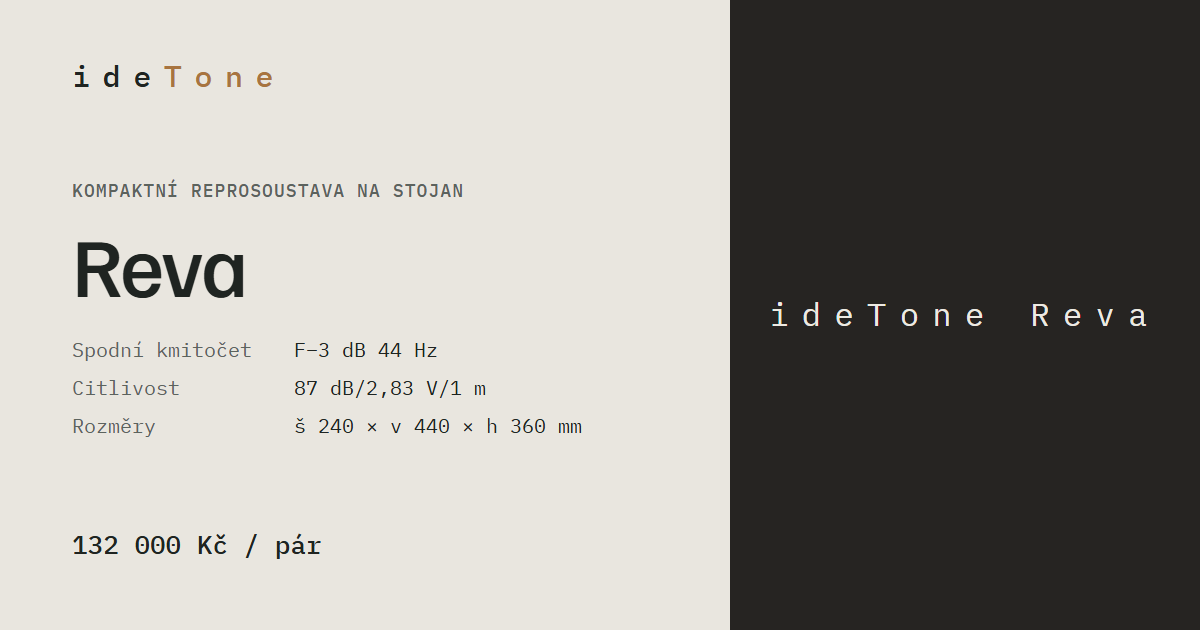
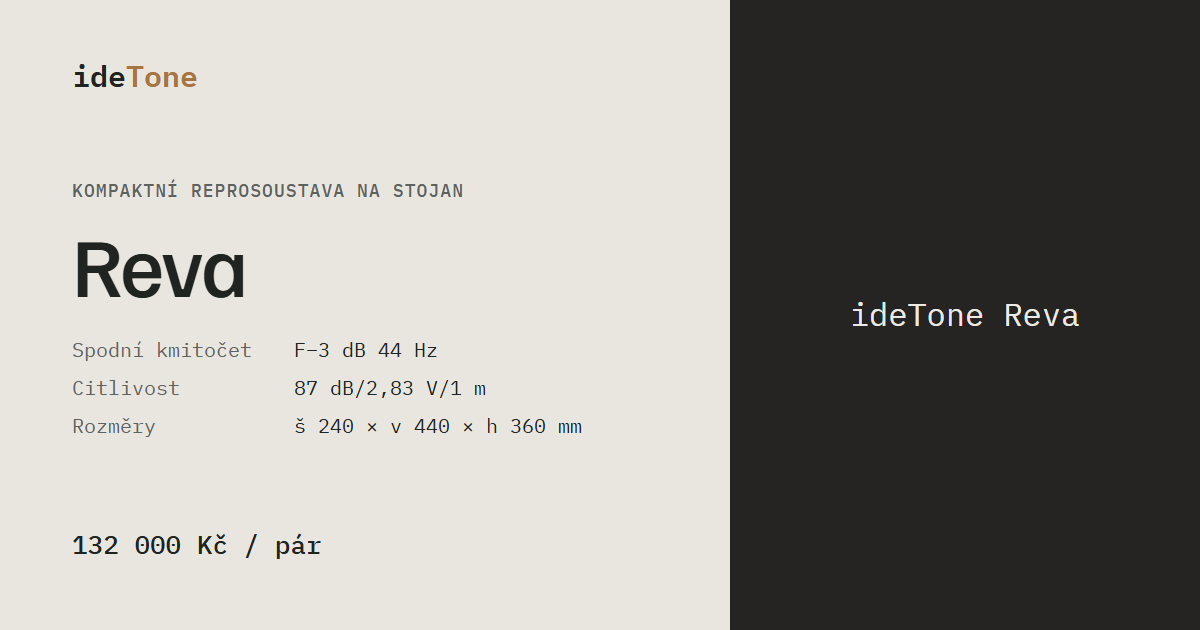
docs: dávka 2 hotová, test režimů pohybu, OG obrázky s novým logem

Changed region(s): [[0.0617, 0.0905, 0.2467, 0.1508], [0.6475, 0.4825, 0.8017, 0.5429], [0.8325, 0.4825, 0.9558, 0.5127]]

diff --git a/tests/layout.spec.ts b/tests/layout.spec.ts
@@ -83,3 +83,25 @@ test('srovnávací tabulka: první sloupec zůstává při posunu na mobilu', as
   const after = await firstCell.boundingBox();
   expect(after?.x).toBeCloseTo(before?.x ?? 0, 0);
 });
+
+// Dávka 2.6: při omezeném pohybu bez posunů a masek, ale s prolnutím; obsah musí být vidět
+for (const motion of ['no-preference', 'reduce'] as const) {
+  test(`pohyb ${motion}: hero a sekce se zobrazí`, async ({ page }) => {
+    await page.emulateMedia({ reducedMotion: motion });
+    await page.setViewportSize({ width: 1280, height: 800 });
+    await page.goto('/');
+    const drawing = page.locator('.hero__drawing');
+    await expect(drawing).toBeVisible();
+    const animation = await drawing.evaluate((el) => getComputedStyle(el).animationName);
+    expect(animation).toBe(motion === 'reduce' ? 'fade-in' : 'draw-up');
+    await page.waitForTimeout(2200);
+    expect(await drawing.evaluate((el) => getComputedStyle(el).opacity)).toBe('1');
+
+    const step = page.locator('.process__text').first();
+    await step.scrollIntoViewIfNeeded();
+    await expect(step).toHaveCSS('opacity', '1', { timeout: 3000 });
+    if (motion === 'reduce') {
+      expect(await step.evaluate((el) => getComputedStyle(el).transform)).toBe('none');
+    }
+  });
+}

diff --git a/CLAUDE.md b/CLAUDE.md
@@ -31,14 +31,14 @@ Web českého výrobce high-end reprosoustav ideTone (Petr Kocourek, Brno). Spra
 - Dub `#A8743F` (akcent, „Tone“ v logu; text v odkazech `#8A5C2E`) · Grafit `#1F2421` (text) · Šalvěj `#8E9B88`
 - Zaoblení 0–2 px, bez gradientů, bez emoji, bez stínů všude, jen světlý režim
 - Sklo (glass, od 1. 10. 2026 na přání Lukáše, ruší zákaz glassmorphismu ze zadání): tmavé plochy (hero panel, `Section tone="uhel"`, patička) = `GlassBackdrop` (rozostřená fotka dřeva pod průsvitným Uhlem); skleněné karty `--glass-card` + `--glass-edge` + `backdrop-filter`; mobilní menu a lightbox `--glass-overlay`; hlavička po scrollu a lišta s cenou `--glass-light`. Tokeny `--glass-*` v `tokens.css`, bez podpory backdrop-filter plné barvy
-- Logo: „ideTone“ IBM Plex Mono 600, prostrkání 0,3 em, „ide“ grafit + „Tone“ dub; komponenta `Logo.astro` (inline SVG na jednom řádku kvůli mezerám – `prettier-ignore`, varianty `dark` / `light`, `height` = velikost písma). Výměna loga = přepsat jen `Logo.astro`
+- Logo: „ideTone“ IBM Plex Mono 600, vcelku bez prostrkání (dávka 2.1), „ide“ grafit + „Tone“ dub; komponenta `Logo.astro` (inline SVG na jednom řádku kvůli mezerám – `prettier-ignore`, varianty `dark` / `light`, `height` = velikost písma). Výměna loga = přepsat jen `Logo.astro`
 - Typografie jen přes sémantické tokeny: `--fs-body` (odstavce 17/18), `--fs-lead` (perex, jen první odstavec), `--fs-data` (strojopis min. 14), `--fs-small` (poznámky min. 14), `--fs-label` (štítky 13, 1–3 slova), `--fs-legal` (copyright 13), `--fs-quote`, `--fs-model` (název modelu 48–96); nadpisy `--fs-xxl…--fs-m`
 - Favicon: `public/favicon.svg` (T dubem na tmavé ploše), PNG verze generuje `npm run favicons`
-- Pohyb (dávka 1.3): odkrytí sekcí `data-reveal`, fotek `data-reveal-img` (clip-path), nástup hero (CSS), Ken Burns pozadí hero, parallax produktu, hover modelů, šipky tlačítek, View Transitions. Vše vypnuté při `prefers-reduced-motion`, obsah viditelný bez JS
+- Pohyb: odkrytí sekcí `data-reveal`, fotek `data-reveal-img` (clip-path), nástup hero, kresba v hero se „nakreslí“ maskou a podpis „napíše“, hover modelů, šipky tlačítek, View Transitions. Při `prefers-reduced-motion: reduce` bez posunů a masek, jen prolnutí `--dur-fade` (300 ms) a hover (dávka 2.6); obsah viditelný bez JS
 - View Transitions (`<ClientRouter />` v `BaseLayout`): skripty komponent spouštět přes `onPage()` z `src/utils/lifecycle.ts` (posluchače s `{ signal }`), ne přímo
 
 ## Komponenty (`src/components/`)
-- `Logo`, `Button` (`variant` primary/secondary, `tone` light/dark, `arrow`), `Section` (`tone` len/papir/uhel, `divider`, `space`, `width`, `glass`/`glassImage` pro tón uhel), `ImageSlot` (`ratio` 4/5, 16/9, 1/1, 3/2, `label`), `Photo` (obsahová fotka s ořezem, `placeholder` → filtr AI), `HeroMedia` (pozadí hero: fotka s Ken Burns nebo video), `ProductSilhouette` (obrysová kresba, když chybí fotka modelu), `Header` (fixed, nahoře velké logo na střed + menu pod ním, po scrollu jeden řádek; rezerva `--header-top-h` na `main`; mobil logo na střed + „Menu“), `Footer`
+- `Logo`, `Button` (`variant` primary/secondary, `tone` light/dark, `arrow`), `Section` (`tone` len/papir/uhel, `divider`, `space`, `width`, `glass`/`glassImage` pro tón uhel), `ImageSlot` (`ratio` 4/5, 16/9, 1/1, 3/2, `label`), `Photo` (obsahová fotka s ořezem, `placeholder` → filtr AI), `ProcessSteps` (číslované kroky s fotkou – Proces vývoje), `ProductSilhouette` (obrysová kresba, když chybí fotka modelu), `Header` (fixed, nahoře velké logo na střed + menu pod ním, po scrollu jeden řádek; rezerva `--header-top-h` na `main`; mobil logo na střed + „Menu“), `Footer`
 - Obsahové: `ProductFeature` (blok modelu, `variant` tall/compact – záměrně ne dvě stejné karty, `showPrice`, rozvržení přes container queries, `transition:name` `model-<id>` sdílený s `Gallery`), `SpecTable`, `CompareTable` (generovaná z kolekce products, sticky první sloupec), `Gallery` (šipky, miniatury, swipe, lightbox `<dialog>`, bez JS odkazy na velké fotky; bez fotek ImageSlot), `Quote`, `WaveguideFigure` (SVG schéma zvukovodu), `PageHeader`, `TextBlock` (odstavce/seznam/podsekce z frontmatteru), `ContactForm` (`type` order/listening/custom; Formspree přes fetch + JSON, české validační hlášky, stavy odesílám/úspěch/chyba, honeypot `_gotcha`, souhlas GDPR, `?model=` předvyplní model, stojany jen u Revy; bez JS klasický POST)
 - `BaseLayout` (`title`, `description` povinný, `noindex`, `image` OG, `ogType`, `crumbs` pro BreadcrumbList, `jsonLd`), `ProsePage` (právní stránky z Markdownu)
 - SEO: canonical, OG + Twitter, JSON-LD (Organization na všech stránkách, LocalBusiness na úvodu/Poslech/Kontakt, Product + Offer u modelů, BreadcrumbList) v `src/utils/seo.ts`; hreflang se vypíše až s `features.english`
@@ -49,7 +49,8 @@ Web českého výrobce high-end reprosoustav ideTone (Petr Kocourek, Brno). Spra
 
 ## Kde co je
 - Schémata obsahu (Zod): `src/content.config.ts`
-- Úvodní stránka – sekce, pořadí, `visible`, `showPrices`, pozadí hero (`background.image` / `video`): `src/content/home.yaml`
+- Úvodní stránka – sekce (hero s kresbou a podpisem, models, concept, process, technology, listening), pořadí, `visible`, `showPrices`: `src/content/home.yaml`
+- Sestava v poslechovém studiu: `studio.system` v `src/content/settings.yaml`; kresba a podpis: `src/assets/uploads/kresby/` (originály `podklady/obrazky/`)
 - Dočasné AI ilustrace: `src/assets/uploads/ai/`, v datech `placeholder: true` + `source` (originály `podklady/ai-obrazky/`); `npm run todo` je vypíše. Na produktových místech (modely, přepínač, bassreflex, portrét) je nepoužívat
 - Kontakty, adresa studia, firemní údaje, sociální sítě: `src/content/settings.yaml` (čte `getSettings()` z `src/utils/content.ts`; prázdné hodnoty se nezobrazí)
 - Produkty (ceny, specifikace, galerie, texty Konstrukce jako `### bloky` v těle): `src/content/products/*.md`

diff --git a/idetone-rozhodnuti.md b/idetone-rozhodnuti.md
@@ -1,7 +1,7 @@
 # ideTone – stav projektu a rozhodnutí
 
 Poslední aktualizace: 1. 10. 2026
-Fáze: **Ladění designu – dávka 1 (docs/UPRAVY.md) hotová, čeká na kontrolu**. Web běží na testovací adrese https://lukaspilko1-sketch.github.io/idetone/ (noindex). F5 – Admin panel odložena. Úpravy se zadávají po dávkách v docs/UPRAVY.md.
+Fáze: **Ladění designu – dávka 2 (docs/UPRAVY.md) hotová, čeká na kontrolu**. Web běží na testovací adrese https://lukaspilko1-sketch.github.io/idetone/ (noindex). F5 – Admin panel odložena. Úpravy se zadávají po dávkách v docs/UPRAVY.md.
 
 Tento soubor je jediný zdroj pravdy o stavu projektu. Kopie je v Claude projektu „WEB - ideTone“ (claude/idetone-rozhodnuti.md) a ve složce webu na PC. Při změně aktualizovat obě.
 
@@ -78,6 +78,9 @@ Tento soubor je jediný zdroj pravdy o stavu projektu. Kopie je v Claude projekt
 - Obchodní podmínky, zásady ochrany osobních údajů
 - Fotky Revy (žádné nejsou – všechny fotky ze starého webu jsou Sara), fotka přepínače výšek (na starém webu ideTone-technologie-urovne-vysek.png, v podkladech chybí), portrét Petra, dílna, studio, spodní část Sary s bassreflexem
 - Kreslené ilustrace (tužkové skici) v podkladech nejsou – 01.png a 02.png jsou screenshoty starého webu
+- Kresba Sary a podpis Petra jen jako výřez ze starého webu (nízké rozlišení) → originál ve vysokém rozlišení / vektor (klient)
+- „CT2034A“ v textu Proces vývoje – nejspíš norma CTA-2034-A (spinorama), ověřit (klient)
+- Sestava studia: přesné názvy modelů, Accuphase PS-1200 („pračka“ na starém webu – síťový zdroj / regenerátor?) (klient)
 - Ke schválení (NÁVRH): texty úvodu (hero, nadpisy sekcí, zkrácené texty technologií, pruh Poslech), meta popisy všech stránek, perexy, „Který model pro mě?“, celá stránka Zakázkové projekty, možnosti poslechu (studio / u zákazníka), GDPR text, doplnění „během let“ v O ideTone
 - Kdy je možné domluvit poslech (dny, časy) → settings.yaml studio.hours
 - Formspree: ověřit podmínky a přenos dat do USA pro text GDPR (Lukáš)
@@ -97,3 +100,4 @@ Tento soubor je jediný zdroj pravdy o stavu projektu. Kopie je v Claude projekt
 - 1. 10. 2026 (F4): axe – čísla kroků Zakázkových projektů na mobilu v --c-dub-text (dub neměl kontrast); kontrast textu na skle změřen z pixelů pozadí → --glass-tint 0,66 a --c-on-dark-muted #C8C2B8 (nejhorší místo 4,7 : 1), malý text na skleněných kartách v plné barvě; Lighthouse přes Chromium z Playwrightu (chrome-launcher na Windows nespustí prohlížeč); CI: actions v7/v5, samostatný job s testy, deploy až po buildu i testech; Formspree free tarif (Lukáš: stačí)
 - 1. 10. 2026: glass v aktuální podobě schválen („zatím ok“); F5 (admin panel) odložena – nejdřív ladění designu podle oblíbených webů klienta
 - 2. 10. 2026 (dávka 1): hlavička fixed s rezervou nad obsahem (žádné skákání), velké logo na střed jako Focal/Dynaudio, po scrollu logo vlevo; logo Plex Mono 600, prostrkání 0,3 em (bylo 500 / 0,42 em); šipka u podmenu kreslená v CSS; View Transitions (ClientRouter) – skripty přes onPage() v src/utils/lifecycle.ts; ceny na úvodu vypnuté přepínačem showPrices v home.yaml; Reva do dodání fotek jako obrysová kresba (ProductSilhouette); bloky modelů přes container queries; typografie jen přes sémantické tokeny, citát textovým písmem 400; ilustrační AI fotky s placeholder: true a filtrem saturate(.85); hero pozadí = rozostřená ilustrace dílny s Ken Burns (připraveno na video); opravena chyba nezlomitelných mezer u jednotek (regulární výraz od F2); kontrast textu na skle po změně pozadí přeměřen (min. 4,67 : 1); design tokeny verze 0.5
+- 2. 10. 2026 (dávka 2): logo vcelku bez prostrkání a menší; hero světlé s kresbou a podpisem (animace maskou, čisté CSS), bez tlačítek a bez tmavého panelu – HeroMedia a Ken Burns odstraněny; modely ve dvou stejných sloupcích bez specifikací (specifikace jen na detailu a ve srovnání, i přehled modelů je bez nich), Sara s fotkou DSC_0800i i jako první v galerii (kvůli plynulému přechodu); nové sekce Koncept a Proces vývoje s texty ze starého úvodu idetone.cz (redakčně jen interpunkce a jedno „je“ → „jsou“), Principy konstrukce a plný Proces vývoje na Technologiích, sestava studia v settings.yaml; citát o složitém celku na úvodu skrytý (visible: false), zůstává v textu O ideTone; při omezeném pohybu jen prolnutí místo vypnutí všeho (WCAG); komponenta ProcessSteps pro úvod i Technologie

diff --git a/docs/UPRAVY.md b/docs/UPRAVY.md
@@ -103,8 +103,17 @@ Pravidla (platí pro celý web, nastavit v tokenech):
 
 ## Dávka 2 – logo, nové hero s kresbou, modely bez specifikací, texty ze starého úvodu, animace
 
-**Stav:** SCHVÁLENO
+**Stav:** HOTOVO (2. 10. 2026)
 **Datum:** 2. 10. 2026
+
+**Výsledek:**
+- 2.1 Logo vcelku (bez prostrkání), desktop `clamp(32px, 3.4vw, 48px)`, po scrollu 22 px, mobil 26 → 20 px; OG obrázky přegenerované.
+- 2.2 Světlé hero bez tlačítek: štítek, H1, věta, „Modely ↓“; vpravo kresba Sary (nativní velikost, nezvětšená) a podpis. Tmavý panel, štítek a Ken Burns zrušené (komponenta `HeroMedia` odstraněna). Hero se vejde na 1280 × 800 i 375 × 812.
+- 2.3 Kresba se „nakreslí“ maskou zdola (1,4 s), podpis se „napíše“ zleva (1,1 s od 0,9 s), text nastupuje postupně. Čisté CSS.
+- 2.4 Modely ve dvou stejných sloupcích, fotka i silueta na stejné podlaze, názvy ve stejné výšce, bez specifikací (i v přehledu modelů – srovnávací tabulka je hned pod tím). Sara = fotka z hero (DSC_0800i), v galerii detailu první. Rezerva pod hero zrušena.
+- 2.5 Nové sekce Koncept a Proces vývoje (nové pořadí úvodu), Principy konstrukce a plný Proces vývoje na Technologiích, sestava studia v `settings.yaml` (`studio.system`) a jako tabulka na Poslechu, tlačítko „Zarezervujte si poslech“.
+- 2.6 Při `prefers-reduced-motion: reduce` jen prolnutí průhlednosti (300 ms) a hover, bez posunů a masek; ověřeno testy v obou režimech.
+- Lighthouse mobil: úvod 99 / 100 / 100 / 100, Technologie 99 / 100 / 100 / 100; 99 funkčních testů zelených.
 **Podklady:** `podklady/obrazky/` (připraveno v Cowork):
 - `kresba-sara-podpis-original.png` – originální screenshot kresby s podpisem (488 × 732 px, pozadí #EAE2DA)
 - `kresba-sara.png` – kresba Sary s průhledným pozadím, tah v barvě grafit (378 × 561 px)

diff --git a/docs/SPRAVA.md b/docs/SPRAVA.md
@@ -59,10 +59,13 @@ Web fotky sám zmenší a převede na AVIF/WebP, originál velikost nehraje roli
 Na stránkách (`src/content/pages/*.md`, `home.yaml`) vyměňte `imageSlot: { label, ratio }` za `image: { src, alt }`. Portrét Petra, dílna a studio jsou zatím přímo v šablonách (`src/pages/o-idetone.astro`, `poslech.astro`) – po dodání fotek je převedu do obsahu.
 
 ### Ceny na úvodní stránce
-V `src/content/home.yaml` přepínač `showPrices` (teď `false`). Cena je vždy na detailu modelu, v přehledu a ve srovnávací tabulce.
+V `src/content/home.yaml` přepínač `showPrices` (teď `false`). Cena je vždy na detailu modelu, v přehledu a ve srovnávací tabulce. Technické parametry jsou jen na detailu a ve srovnávací tabulce.
 
-### Video v hero místo fotky
-Krátké video z dílny (5–15 s, bez zvuku, ideálně do 3 MB) uložte do `public/video/` (např. `dilna.webm`, případně i `dilna.mp4`) a v `home.yaml` u hero doplňte do `background` řádek `video: /video/dilna.webm` (a `videoMp4: /video/dilna.mp4`). Fotka v `background.image` zůstane jako náhled, než se video načte.
+### Kresba a podpis v hero
+Soubory jsou v `src/assets/uploads/kresby/`, cesty a popisy v `home.yaml` u hero (`drawing`, `signature`). Až klient dodá originál ve vyšším rozlišení, stačí soubor vyměnit (stejný název) nebo upravit cestu.
+
+### Sestava v poslechovém studiu
+`src/content/settings.yaml` → `studio.system` (dvojice `label` / `value`). Zobrazí se jako tabulka na stránce Poslech. Text v tmavém pruhu na úvodu je zvlášť v `home.yaml` (sekce `listening`).
 
 ### Vyměnit ilustrační (AI) fotky za skutečné
 `npm run todo` vypíše všechny fotky s `placeholder: true`. Nový soubor uložte (např. do `src/assets/uploads/`), v datech změňte `src`, upravte `alt` a smažte řádky `placeholder` a `source`.
